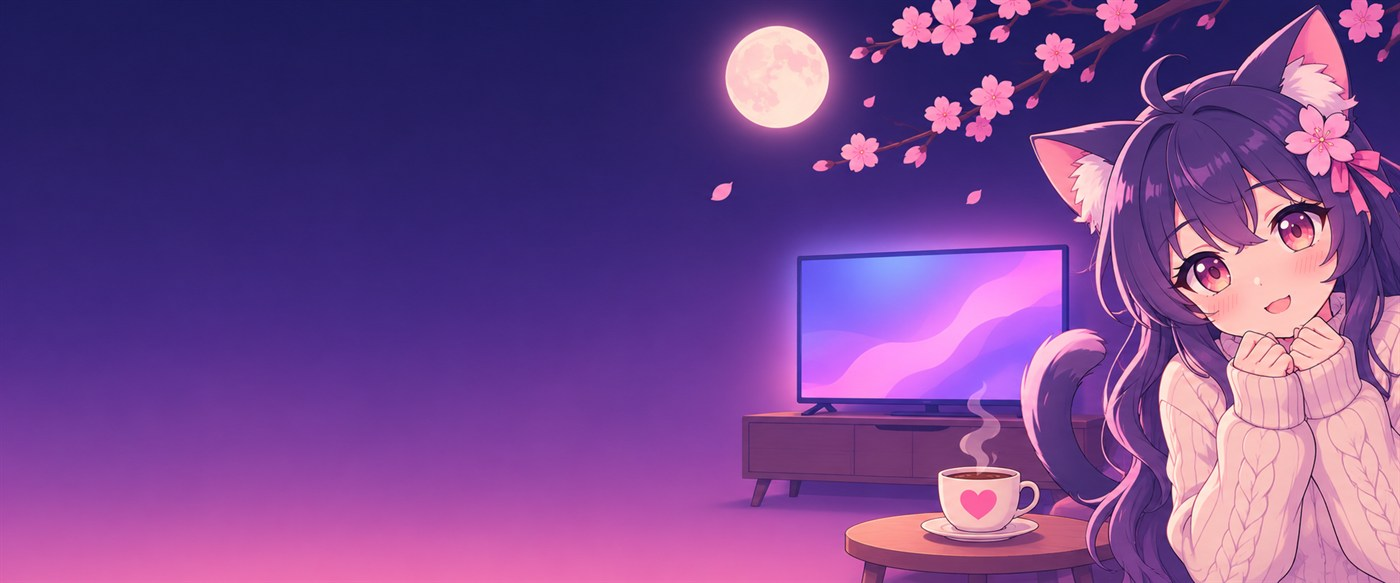
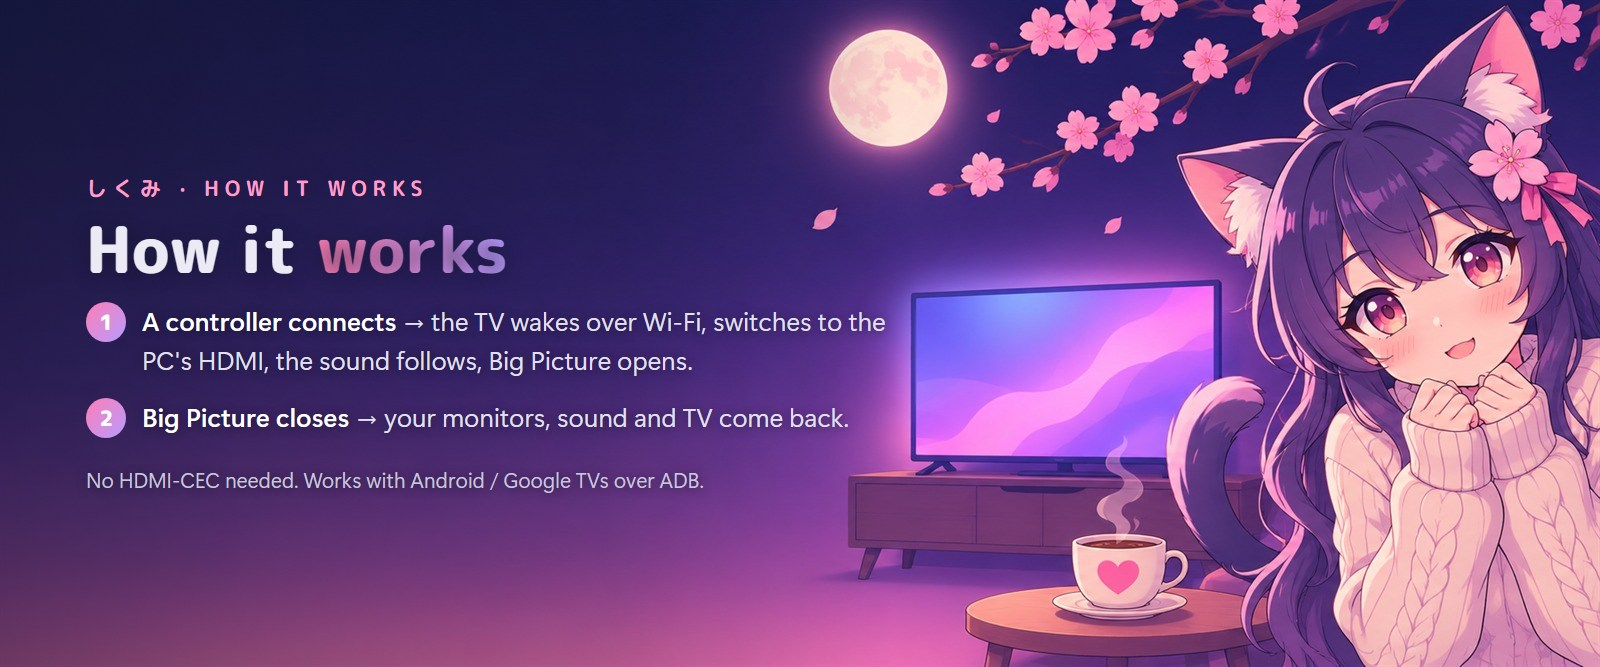
README: pitch and How it works laid over the catgirl pictures
The text moves onto the art (docs/design/readme-cards.html, rendered with headless Edge), so the
README gets shorter; the alt texts keep the words.

diff --git a/docs/design/readme-cards.html b/docs/design/readme-cards.html
@@ -1,0 +1,51 @@
+<!DOCTYPE html>
+<!-- README picture cards: the catgirl art (docs/design/art) with README text laid over it, in the app's
+     fonts. Render one card with headless Edge at 1600x667: readme-cards.html#couch or #how
+     → docs/screenshots/catgirl-couch.jpg / catgirl-tv.jpg. -->
+<html><head><meta charset="utf-8"><style>
+@font-face { font-family: "MPR"; src: url("../../Fonts/MPLUSRounded1c-ExtraBold.ttf"); font-weight: 800; }
+@font-face { font-family: "MPR"; src: url("../../Fonts/MPLUSRounded1c-Bold.ttf"); font-weight: 700; }
+html, body { margin: 0; width: 1600px; height: 667px; overflow: hidden; background: #0f1222; }
+.card { position: relative; width: 1600px; height: 667px; display: none; background-size: cover; }
+.card.on { display: block; }
+.fade { position: absolute; inset: 0; background: linear-gradient(90deg, rgba(15,18,34,.55) 0%, rgba(15,18,34,.28) 38%, rgba(15,18,34,0) 56%); }
+.copy { position: absolute; left: 86px; top: 0; bottom: 0; display: flex; flex-direction: column; justify-content: center;
+        color: #ecebf5; font-family: "Segoe UI Variable Display", "Segoe UI", sans-serif; }
+.kana { font-family: "MPR", "Yu Gothic UI", sans-serif; font-weight: 700; font-size: 21px; letter-spacing: 6px; color: #ff9cc8; }
+h2 { margin: 10px 0 18px; font-family: "MPR"; font-weight: 800; font-size: 64px; line-height: 1.08; letter-spacing: .3px;
+     text-shadow: 0 2px 18px rgba(15,18,34,.45); }
+h2 i { font-style: normal; background: linear-gradient(90deg, #ff7eb6, #b79bff); -webkit-background-clip: text; color: transparent; }
+p { margin: 0; font-size: 26px; line-height: 1.5; color: #e2e0f0; text-shadow: 0 1px 10px rgba(15,18,34,.6); }
+p b { color: #fff; font-weight: 600; }
+.chips { display: flex; gap: 10px; margin-top: 26px; }
+.chip { padding: 8px 18px; border-radius: 999px; background: rgba(255,126,182,.14); border: 1.5px solid rgba(255,126,182,.45);
+        color: #ffc2dc; font-size: 21px; font-weight: 600; }
+.step { display: flex; gap: 16px; align-items: flex-start; margin-bottom: 18px; }
+.num { flex: none; width: 40px; height: 40px; border-radius: 20px; display: flex; align-items: center; justify-content: center;
+       font-family: "MPR"; font-weight: 800; font-size: 21px; color: #fff; background: linear-gradient(135deg, #ff7eb6, #b79bff); margin-top: 1px; }
+.note { margin-top: 8px; font-size: 21px; color: #c9c6dd; }
+</style></head><body>
+
+<div class="card" id="couch" style="background-image: url('art/catgirl-couch.jpg')">
+  <div class="fade"></div>
+  <div class="copy" style="width: 640px; padding-top: 70px">
+    <div class="kana">ゲーム · YOUR CONSOLE</div>
+    <h2>Not sold on the<br><i>Steam Machine?</i></h2>
+    <p><b>Your gaming PC already is one.</b> Pick up the controller — the TV wakes up, switches to the PC and opens Big Picture. Close it, and your desk is back as you left it.</p>
+    <div class="chips"><span class="chip">no second box</span><span class="chip">no remote</span><span class="chip">no Win+P</span></div>
+  </div>
+</div>
+
+<div class="card" id="how" style="background-image: url('art/catgirl-tv.jpg')">
+  <div class="fade"></div>
+  <div class="copy" style="width: 800px">
+    <div class="kana">しくみ · HOW IT WORKS</div>
+    <h2>How it <i>works</i></h2>
+    <div class="step"><div class="num">1</div><p><b>A controller connects</b> → the TV wakes over Wi-Fi, switches to the PC's HDMI, the sound follows, Big Picture opens.</p></div>
+    <div class="step"><div class="num">2</div><p><b>Big Picture closes</b> → your monitors, sound and TV come back.</p></div>
+    <p class="note">No HDMI-CEC needed. Works with Android / Google TVs over ADB.</p>
+  </div>
+</div>
+
+<script>document.getElementById((location.hash || '#couch').slice(1)).classList.add('on');</script>
+</body></html>

diff --git a/README.md b/README.md
@@ -11,12 +11,8 @@
 </p>
 
 <p align="center">
-  <img src="docs/screenshots/catgirl-couch.jpg" width="760" alt="A catgirl on the couch with a controller, offering you a coffee">
+  <img src="docs/screenshots/catgirl-couch.jpg" alt="Not sold on the Steam Machine? Your gaming PC already is one. Pick up the controller — the TV wakes up, switches to the PC and opens Big Picture. Close it, and your desk is back as you left it. No second box, no remote, no Win+P.">
 </p>
-
-**Not sold on the Steam Machine's specs — or its price? Your gaming PC already is one.**
-
-SteamTV turns the PC you have into a living-room console: pick up the controller and the TV wakes up, switches to the PC, the sound moves over and Steam Big Picture opens. Close Big Picture and your desk is back exactly as you left it — monitors, speakers, even the app the TV was showing. No second box, no remote, no Win+P, no walking to the PC.
 
 <p align="center">
   <img src="docs/screenshots/home.png" width="760" alt="SteamTV home page">
@@ -55,15 +51,8 @@ Turn on **Start with Windows** in Settings and you'll never need to open it agai
 - **Network debugging turns itself off** on many TVs after a reboot. On the author's TV, **tvQuickActions** keeps it on; [adb-auto-enable](https://github.com/mouldybread/adb-auto-enable) and [KeepADB](https://f-droid.org/packages/de.hohnepeople.keepadb/) do the same job.
 - **When a controller disconnects** SteamTV can go back to the PC by itself — turn it on per device on the Devices page; how long it waits is in Settings.
 
-## How it works
-
-1. **A trigger device connects** → wake the TV over ADB (Wi-Fi), turn on the TV display, switch the TV's HDMI input, move the sound, open Big Picture.
-2. **Big Picture closes** (or the controller has been gone for a while) → restore the monitors and sound, return the TV, minimize Steam.
-
-No HDMI-CEC needed — most PC graphics cards don't do it anyway. SteamTV talks to the TV over ADB, so it works with Android / Google TVs. Xiaomi TVs are switched with their own player; other Android TVs with the standard TV-input intent.
-
 <p align="center">
-  <img src="docs/screenshots/catgirl-tv.jpg" width="760" alt="A catgirl next to the glowing TV, with a cup of coffee">
+  <img src="docs/screenshots/catgirl-tv.jpg" alt="How it works: 1. A controller connects — the TV wakes over Wi-Fi, switches to the PC's HDMI, the sound follows, Big Picture opens. 2. Big Picture closes — your monitors, sound and TV come back. No HDMI-CEC needed; works with Android / Google TVs over ADB.">
 </p>
 
 ## Home Assistant
